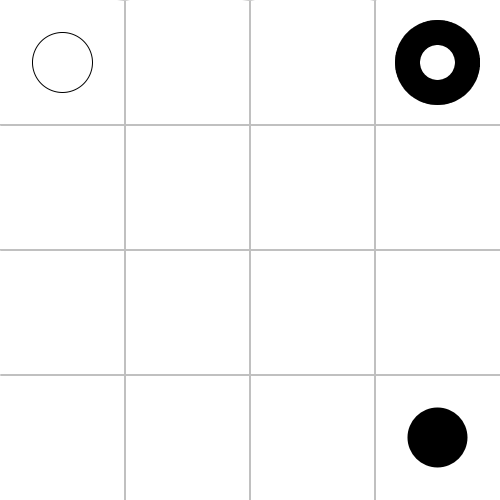
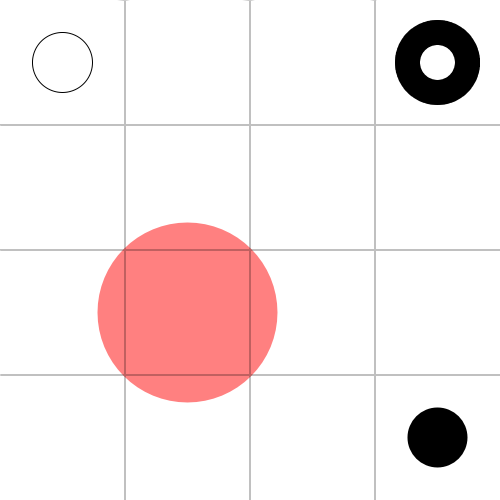
Clean Up

Changed region(s): [[0.18, 0.42, 0.57, 0.81]]

diff --git a/examples/example4/example4.go b/examples/example4/example4.go
@@ -26,6 +26,7 @@ func main() {
 
 	grid.DrawRectangle(0, 0, gridder.RectangleConfig{Width: 60, Height: 60, Color: color.Black, Stroke: true})
 	grid.DrawRectangle(0, 3, gridder.RectangleConfig{Width: 60, Height: 60, Color: color.Black, Stroke: true, StrokeWidth: 25})
+	grid.DrawRectangle(2, 1, gridder.RectangleConfig{Width: 180, Height: 180, Color: color.RGBA{R: 255 / 2, A: 255 / 2}})
 	grid.DrawRectangle(3, 3, gridder.RectangleConfig{Width: 60, Height: 60, Color: color.Black, Stroke: false})
 	grid.SavePNG()
 }

diff --git a/examples/example5/example5.go b/examples/example5/example5.go
@@ -26,6 +26,7 @@ func main() {
 
 	grid.DrawCircle(0, 0, gridder.CircleConfig{Radius: 30, Color: color.Black, Stroke: true})
 	grid.DrawCircle(0, 3, gridder.CircleConfig{Radius: 30, Color: color.Black, Stroke: true, StrokeWidth: 25})
+	grid.DrawCircle(2, 1, gridder.CircleConfig{Radius: 90, Color: color.RGBA{R: 255 / 2, A: 255 / 2}})
 	grid.DrawCircle(3, 3, gridder.CircleConfig{Radius: 30, Color: color.Black, Stroke: false})
 	grid.SavePNG()
 }
